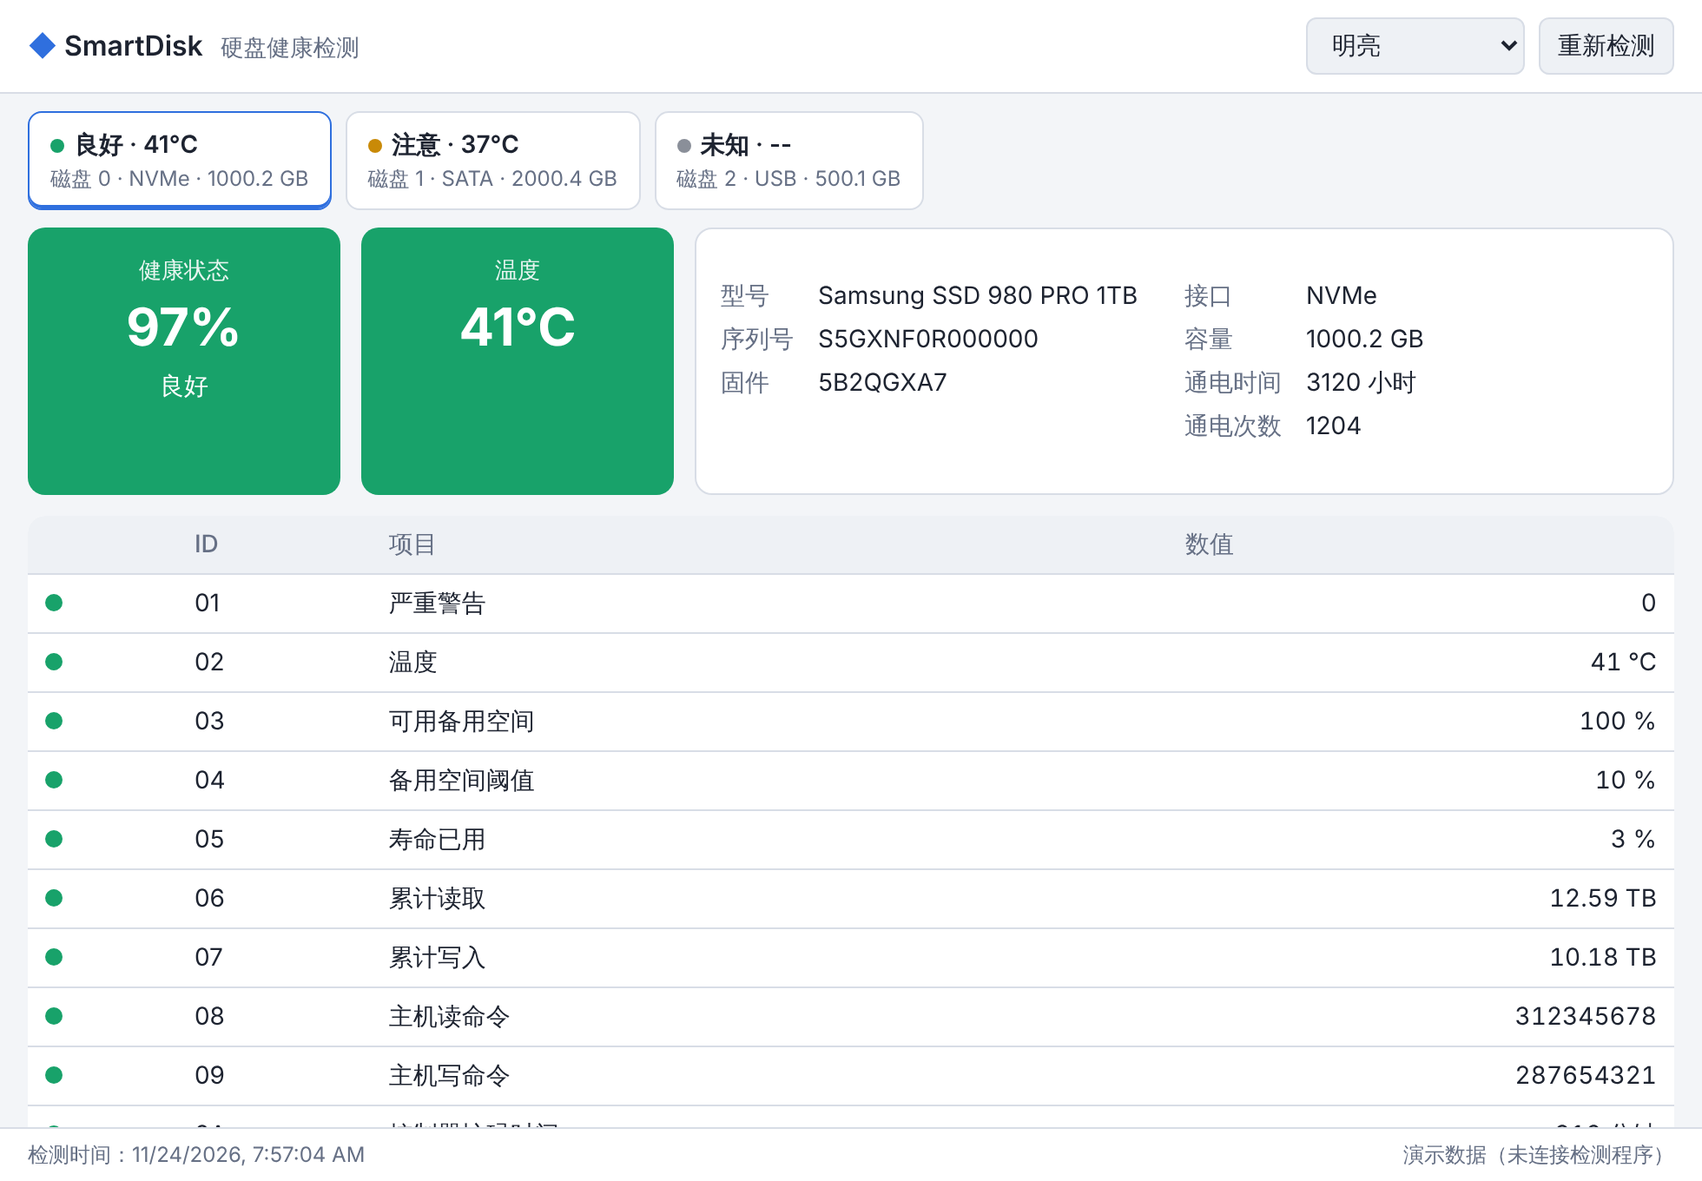
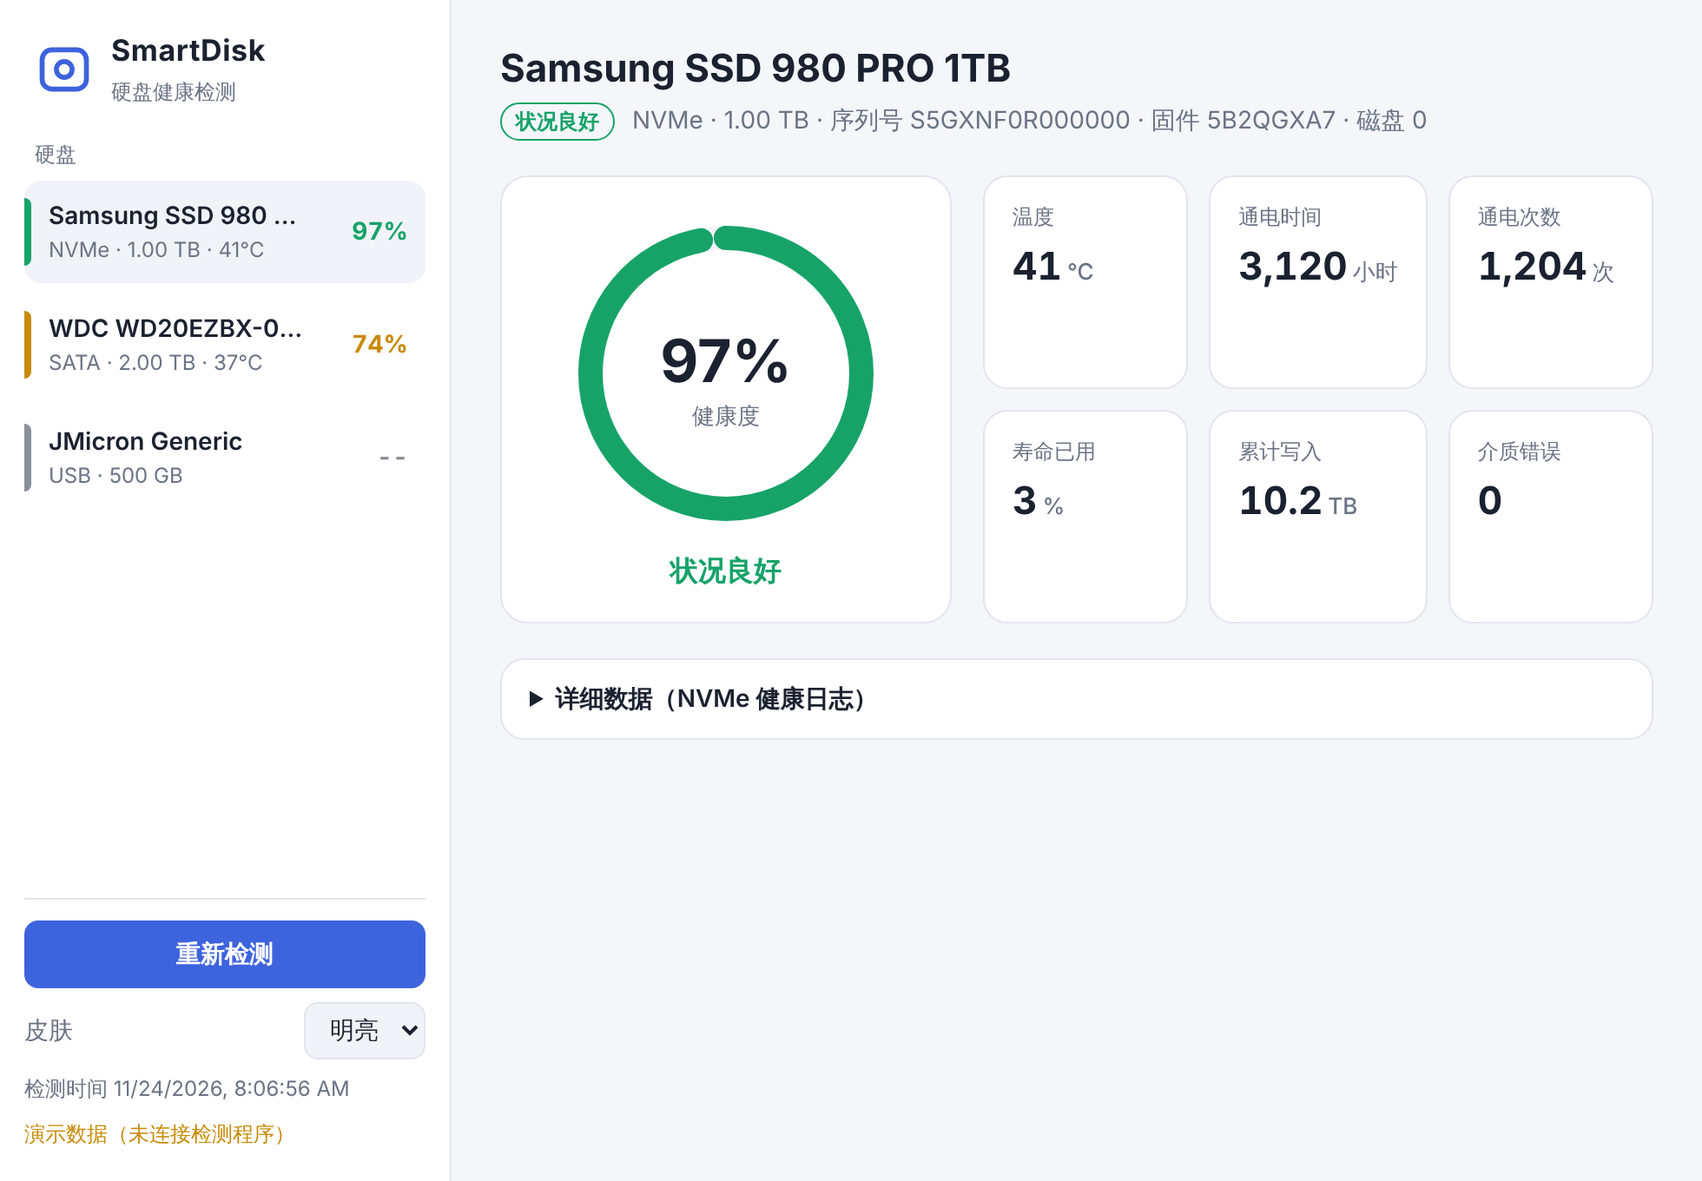
Redesign UI: sidebar disk list, health ring, metric cards
Replaces the tab strip + flat attribute table with an original layout:
left sidebar disk list, circular health gauge, key metric cards and a
collapsible detailed-data section.

Claude-Session: https://claude.ai/code/session_01VmbwVr5NVgu4o6oHH7UYL3

diff --git a/app/renderer/app.js b/app/renderer/app.js
@@ -1,14 +1,14 @@
 const $ = (s) => document.querySelector(s);
-const STATUS_TEXT = { good: '良好', warn: '注意', bad: '危险', unknown: '未知' };
+const STATUS_TEXT = { good: '状况良好', warn: '需要注意', bad: '建议更换', unknown: '无法判断' };
 const BUS_TEXT = { sata: 'SATA', nvme: 'NVMe', usb: 'USB', other: '其他' };
 
 let data = null;
 let current = 0;
 
 function esc(v) { return String(v ?? '').replace(/[&<>"]/g, c => ({ '&': '&amp;', '<': '&lt;', '>': '&gt;', '"': '&quot;' }[c])); }
-function gb(bytes) { return bytes ? (bytes / 1e9).toFixed(1) + ' GB' : '-'; }
-function hex(n) { return Number(n).toString(16).toUpperCase().padStart(12, '0'); }
-function statusVar(s) { return `var(--${s === 'unknown' ? 'unknown' : s})`; }
+function size(bytes) { if (!bytes) return '-'; return bytes >= 1e12 ? (bytes / 1e12).toFixed(2) + ' TB' : Math.round(bytes / 1e9) + ' GB'; }
+function color(s) { return `var(--${s || 'unknown'})`; }
+function num(n) { return n == null ? '-' : Number(n).toLocaleString(); }
 
 // ---- skins ----
 function applyTheme(t) {
@@ -18,63 +18,112 @@ function applyTheme(t) {
 try { const t = localStorage.getItem('theme'); if (t) { $('#theme').value = t; applyTheme(t); } } catch {}
 $('#theme').addEventListener('change', e => applyTheme(e.target.value));
 
+// ---- pieces ----
+function gauge(pct, status) {
+  const r = 78, c = 2 * Math.PI * r;
+  const p = pct == null ? 0 : pct / 100;
+  return `<svg class="gauge" viewBox="0 0 190 190">
+    <circle class="track" cx="95" cy="95" r="${r}" fill="none" stroke-width="14"/>
+    <circle cx="95" cy="95" r="${r}" fill="none" stroke="${color(status)}" stroke-width="14" stroke-linecap="round"
+      stroke-dasharray="${c * p} ${c}" transform="rotate(-90 95 95)"/>
+    <text class="v" x="95" y="100" text-anchor="middle">${pct == null ? '--' : pct + '%'}</text>
+    <text class="l" x="95" y="124" text-anchor="middle">健康度</text>
+  </svg>`;
+}
+
+function metric(k, v, unit = '', cls = '') {
+  return `<div class="metric ${cls}"><div class="k">${k}</div><div class="v">${esc(v)}${unit ? `<small>${unit}</small>` : ''}</div></div>`;
+}
+
+function rawOf(d, id) { return d.ata?.attributes.find(a => a.id === id)?.raw; }
+
+function metricsFor(d, s) {
+  const t = s.temperatureC;
+  const tCls = t == null ? '' : t >= 60 ? 'danger' : t >= 50 ? 'alert' : '';
+  const list = [
+    metric('温度', t ?? '--', t == null ? '' : '°C', tCls),
+    metric('通电时间', num(s.powerOnHours), '小时'),
+    metric('通电次数', num(s.powerCycles), '次'),
+  ];
+  if (d.nvme) {
+    const n = d.nvme;
+    list.push(
+      metric('寿命已用', n.percentageUsed, '%', n.percentageUsed >= 90 ? 'alert' : ''),
+      metric('累计写入', (n.dataUnitsWritten * 512000 / 1e12).toFixed(1), 'TB'),
+      metric('介质错误', num(n.mediaErrors), '', n.mediaErrors ? 'alert' : ''),
+    );
+  } else if (d.ata) {
+    const re = rawOf(d, 5) ?? 0, pend = rawOf(d, 197) ?? 0, unc = rawOf(d, 198) ?? 0;
+    list.push(
+      metric('重映射扇区', num(re), '', re ? 'alert' : ''),
+      metric('待映射扇区', num(pend), '', pend ? 'alert' : ''),
+      metric('无法修正扇区', num(unc), '', unc ? 'danger' : ''),
+    );
+  }
+  return list.join('');
+}
+
+function rawTable(d, s) {
+  if (!s.rows.length) return '';
+  const STATE = { ok: '正常', warn: '注意', bad: '异常' };
+  if (d.nvme) {
+    return `<details class="raw"><summary>详细数据（NVMe 健康日志）</summary><div class="attr-list">
+      ${s.rows.map(r => `<div class="attr nv"><span class="n">${esc(r.name)}</span><span class="r st-${r.state}">${esc(r.value)}</span></div>`).join('')}
+    </div></details>`;
+  }
+  return `<details class="raw"><summary>详细数据（SMART 属性 ${s.rows.length} 项）</summary><div class="attr-list">
+    <div class="attr hdr"><span>属性</span><span class="r">原始值</span><span class="r">当前</span><span class="r">阈值</span><span class="r">状态</span></div>
+    ${s.rows.map(r => `<div class="attr"><span class="n">${esc(r.name)}<small>#${r.id}</small></span>
+      <span class="r">${num(r.raw)}</span><span class="r">${r.current}</span><span class="r">${r.threshold}</span>
+      <span class="r st-${r.state}">${STATE[r.state]}</span></div>`).join('')}
+  </div></details>`;
+}
+
 // ---- rendering ----
-function renderTabs() {
-  $('#tabs').innerHTML = data.disks.map((d, i) => {
+function renderList() {
+  $('#diskList').innerHTML = data.disks.map((d, i) => {
     const s = d.summary;
-    const temp = s.temperatureC != null ? `${s.temperatureC}°C` : '--';
-    return `<button class="tab ${i === current ? 'active' : ''}" data-i="${i}">
-      <div class="t1"><span class="dot" style="background:${statusVar(s.status)}"></span>${STATUS_TEXT[s.status]} · ${temp}</div>
-      <div class="t2">磁盘 ${d.index} · ${esc(BUS_TEXT[d.bus] || d.bus)} · ${gb(d.sizeBytes)}</div>
+    return `<button class="disk ${i === current ? 'active' : ''}" data-i="${i}">
+      <span class="bar" style="background:${color(s.status)}"></span>
+      <span><div class="m">${esc(d.model) || '未知型号'}</div><div class="s">${esc(BUS_TEXT[d.bus] || d.bus)} · ${size(d.sizeBytes)}${s.temperatureC != null ? ' · ' + s.temperatureC + '°C' : ''}</div></span>
+      <span class="pct" style="color:${color(s.status)}">${s.health != null ? s.health + '%' : '--'}</span>
     </button>`;
   }).join('');
-  document.querySelectorAll('.tab').forEach(b => b.onclick = () => { current = +b.dataset.i; render(); });
+  document.querySelectorAll('.disk').forEach(b => b.onclick = () => { current = +b.dataset.i; render(); });
 }
 
 function renderDetail() {
   const d = data.disks[current];
   const s = d.summary;
-  const tempStatus = s.temperatureC == null ? 'unknown' : s.temperatureC >= 60 ? 'bad' : s.temperatureC >= 50 ? 'warn' : 'good';
-  const isNvme = !!d.nvme;
+  const head = `<div class="head"><h1>${esc(d.model) || '未知型号'}</h1>
+    <div class="meta"><span class="chip" style="color:${color(s.status)}">${STATUS_TEXT[s.status]}</span>
+    ${esc(BUS_TEXT[d.bus] || d.bus)} · ${size(d.sizeBytes)} · 序列号 ${esc(d.serial) || '-'} · 固件 ${esc(d.firmware) || '-'} · 磁盘 ${d.index}</div></div>`;
 
-  const rows = isNvme
-    ? s.rows.map(r => `<tr><td><span class="state st-${r.state}"></span></td><td>${r.id}</td><td>${esc(r.name)}</td><td class="num">${esc(r.value)}</td></tr>`).join('')
-    : s.rows.map(r => `<tr><td><span class="state st-${r.state}"></span></td><td>${r.id.toString(16).toUpperCase().padStart(2, '0')}</td><td>${esc(r.name)}</td>
-        <td class="num">${r.current}</td><td class="num">${r.worst}</td><td class="num">${r.threshold}</td><td class="num">${hex(r.raw)}</td></tr>`).join('');
-  const head = isNvme
-    ? '<tr><th></th><th>ID</th><th>项目</th><th>数值</th></tr>'
-    : '<tr><th></th><th>ID</th><th>属性</th><th>当前值</th><th>最差值</th><th>阈值</th><th>原始值</th></tr>';
-
-  $('#detail').innerHTML = `
-    <section class="overview">
-      <div class="badge s-${s.status}"><div class="label">健康状态</div>
-        <div class="value">${s.health != null ? s.health + '%' : '--'}</div><div>${STATUS_TEXT[s.status]}</div></div>
-      <div class="badge s-${tempStatus}"><div class="label">温度</div>
-        <div class="value">${s.temperatureC != null ? s.temperatureC + '°C' : '--'}</div><div>&nbsp;</div></div>
-      <div class="card">
-        <dl class="info">
-          <dt>型号</dt><dd>${esc(d.model) || '-'}</dd><dt>接口</dt><dd>${esc(BUS_TEXT[d.bus] || d.bus)}</dd>
-          <dt>序列号</dt><dd>${esc(d.serial) || '-'}</dd><dt>容量</dt><dd>${gb(d.sizeBytes)}</dd>
-          <dt>固件</dt><dd>${esc(d.firmware) || '-'}</dd><dt>通电时间</dt><dd>${s.powerOnHours != null ? s.powerOnHours + ' 小时' : '-'}</dd>
-          <dt></dt><dd></dd><dt>通电次数</dt><dd>${s.powerCycles ?? '-'}</dd>
-        </dl>
-        ${s.reasons?.length ? `<div class="reasons">⚠ ${s.reasons.map(esc).join('；')}</div>` : ''}
+  if (!d.smartOk) {
+    $('#detail').innerHTML = head + `<div class="hero"><div class="gauge-card">${gauge(null, 'unknown')}<div class="verdict">${STATUS_TEXT.unknown}</div></div>
+      <div class="empty">${d.bus === 'usb' ? '这块硬盘通过 USB 硬盘盒连接，桥接芯片不支持读取 SMART。请把硬盘直接接到主板 SATA / M.2 接口再检测。' : esc(s.reasons[0])}</div></div>`;
+    return;
+  }
+  $('#detail').innerHTML = head + `
+    <section class="hero">
+      <div class="gauge-card">${gauge(s.health, s.status)}
+        <div class="verdict" style="color:${color(s.status)}">${STATUS_TEXT[s.status]}</div>
+        ${s.reasons.length ? `<ul class="reasons">${s.reasons.map(r => `<li>${esc(r)}</li>`).join('')}</ul>` : ''}
       </div>
+      <div class="metrics">${metricsFor(d, s)}</div>
     </section>
-    ${s.rows.length ? `<table><thead>${head}</thead><tbody>${rows}</tbody></table>`
-                    : `<div class="card muted">${d.bus === 'usb' ? '该硬盘通过 USB 硬盘盒连接，桥接芯片不支持读取 SMART。请改用 SATA/M.2 直连检测。' : esc(s.reasons[0])}</div>`}
-  `;
+    ${rawTable(d, s)}`;
 }
 
 function render() {
   if (!data.disks.length) {
-    $('#tabs').innerHTML = '';
-    $('#detail').innerHTML = `<div class="card">未找到硬盘。${data.error ? esc(data.error) : '请确认以管理员身份运行。'}</div>`;
+    $('#diskList').innerHTML = '';
+    $('#detail').innerHTML = `<div class="empty">未找到硬盘。${data.error ? esc(data.error) : '请确认以管理员身份运行。'}</div>`;
     return;
   }
-  renderTabs();
+  renderList();
   renderDetail();
-  $('#scanTime').textContent = '检测时间：' + new Date(data.scannedAt).toLocaleString();
+  $('#scanTime').textContent = '检测时间 ' + new Date(data.scannedAt).toLocaleString();
   $('#notice').textContent = data.mock ? '演示数据（未连接检测程序）' : (data.elevated ? '' : '未取得管理员权限，部分硬盘可能无法读取');
 }
 

diff --git a/app/renderer/style.css b/app/renderer/style.css
@@ -1,27 +1,27 @@
 /* Skins: each theme only redefines tokens. Add a new skin = add one block. */
 :root, [data-theme="slate"] {
-  --bg: #1b1e24; --panel: #242830; --panel-2: #2d323c; --text: #e6e8ec; --muted: #9098a6;
-  --accent: #6ea8fe; --border: #363c48;
-  --good: #3ccf8e; --warn: #f2b53c; --bad: #f2555a; --unknown: #8a8f99;
+  --bg: #15171c; --side: #1c1f26; --panel: #22262e; --panel-2: #2a2f39; --text: #e8eaee; --muted: #8e96a4;
+  --accent: #7c9cff; --border: #2f3440;
+  --good: #3ccf8e; --warn: #f2b53c; --bad: #f2555a; --unknown: #7d8390;
 }
 [data-theme="light"] {
-  --bg: #f3f5f8; --panel: #ffffff; --panel-2: #eef1f5; --text: #1d2330; --muted: #667085;
-  --accent: #2f6fde; --border: #d8dde6;
-  --good: #18a26a; --warn: #c98a07; --bad: #d63a40; --unknown: #8a8f99;
+  --bg: #f4f6fa; --side: #ffffff; --panel: #ffffff; --panel-2: #f0f3f8; --text: #1b2130; --muted: #6b7385;
+  --accent: #3d63dd; --border: #e1e5ec;
+  --good: #17a368; --warn: #c98a07; --bad: #d63a40; --unknown: #8a8f99;
 }
 [data-theme="ocean"] {
-  --bg: #0c1b2a; --panel: #11263a; --panel-2: #173149; --text: #e3f0fb; --muted: #8fb0cc;
-  --accent: #38bdf8; --border: #1f3d59;
+  --bg: #0a1724; --side: #0e2032; --panel: #12283d; --panel-2: #183450; --text: #e3f0fb; --muted: #8fb0cc;
+  --accent: #38bdf8; --border: #1e3d5a;
   --good: #34d399; --warn: #fbbf24; --bad: #fb7185; --unknown: #8a8f99;
 }
 [data-theme="forest"] {
-  --bg: #141c16; --panel: #1c271f; --panel-2: #243328; --text: #e5efe6; --muted: #93a896;
-  --accent: #8bd17c; --border: #2e4033;
+  --bg: #111813; --side: #172019; --panel: #1c271f; --panel-2: #243328; --text: #e5efe6; --muted: #93a896;
+  --accent: #8bd17c; --border: #2b3c30;
   --good: #8bd17c; --warn: #e8c547; --bad: #ef6f5e; --unknown: #8a8f99;
 }
 [data-theme="sunset"] {
-  --bg: #221619; --panel: #2e1e22; --panel-2: #3a262b; --text: #f7e9e4; --muted: #c2a19a;
-  --accent: #ff9f6e; --border: #4a3036;
+  --bg: #1d1316; --side: #261a1e; --panel: #2e1e22; --panel-2: #3a262b; --text: #f7e9e4; --muted: #c2a19a;
+  --accent: #ff9f6e; --border: #452d33;
   --good: #7fd8a4; --warn: #ffc857; --bad: #ff6b6b; --unknown: #8a8f99;
 }
 
@@ -30,42 +30,63 @@ html, body { margin: 0; height: 100%; }
 body {
   background: var(--bg); color: var(--text);
   font: 14px/1.5 "Segoe UI", "Microsoft YaHei UI", sans-serif;
-  display: flex; flex-direction: column;
+  display: grid; grid-template-columns: 260px 1fr;
 }
-.topbar { display: flex; justify-content: space-between; align-items: center; padding: 10px 16px; background: var(--panel); border-bottom: 1px solid var(--border); }
-.brand { font-weight: 600; font-size: 16px; }
-.brand .logo { color: var(--accent); }
-.brand small { color: var(--muted); font-weight: 400; margin-left: 6px; }
-.actions { display: flex; gap: 8px; }
-select, button { background: var(--panel-2); color: var(--text); border: 1px solid var(--border); border-radius: 6px; padding: 5px 10px; font: inherit; cursor: pointer; }
-button:hover { border-color: var(--accent); }
-
-.tabs { display: flex; gap: 8px; padding: 10px 16px; overflow-x: auto; background: var(--bg); }
-.tab { min-width: 130px; padding: 8px 12px; border-radius: 8px; background: var(--panel); border: 1px solid var(--border); text-align: left; }
-.tab.active { border-color: var(--accent); box-shadow: inset 0 -2px 0 var(--accent); }
-.tab .dot { display: inline-block; width: 8px; height: 8px; border-radius: 50%; margin-right: 6px; }
-.tab .t1 { font-weight: 600; }
-.tab .t2 { color: var(--muted); font-size: 12px; }
-
-.detail { flex: 1; overflow: auto; padding: 0 16px 16px; }
-.overview { display: grid; grid-template-columns: 180px 180px 1fr; gap: 12px; margin-bottom: 12px; }
-.card { background: var(--panel); border: 1px solid var(--border); border-radius: 10px; padding: 14px; }
-.badge { text-align: center; color: #fff; border-radius: 10px; padding: 16px 10px; }
-.badge .label { font-size: 13px; opacity: .9; }
-.badge .value { font-size: 30px; font-weight: 700; }
-.s-good { background: var(--good); } .s-warn { background: var(--warn); }
-.s-bad { background: var(--bad); }   .s-unknown { background: var(--unknown); }
-.info { display: grid; grid-template-columns: max-content 1fr max-content 1fr; gap: 4px 14px; }
-.info dt { color: var(--muted); } .info dd { margin: 0; }
-.reasons { margin-top: 8px; color: var(--warn); font-size: 13px; }
-
-table { width: 100%; border-collapse: collapse; background: var(--panel); border-radius: 10px; overflow: hidden; }
-th, td { padding: 6px 10px; text-align: left; border-bottom: 1px solid var(--border); white-space: nowrap; }
-th { background: var(--panel-2); color: var(--muted); font-weight: 500; position: sticky; top: 0; }
-td.num { text-align: right; font-variant-numeric: tabular-nums; }
-tr .state { width: 10px; height: 10px; border-radius: 50%; display: inline-block; }
-.st-ok { background: var(--good); } .st-warn { background: var(--warn); } .st-bad { background: var(--bad); }
-
-.footer { display: flex; justify-content: space-between; padding: 6px 16px; color: var(--muted); font-size: 12px; border-top: 1px solid var(--border); background: var(--panel); }
+button, select { font: inherit; color: var(--text); background: var(--panel-2); border: 1px solid var(--border); border-radius: 8px; padding: 6px 10px; cursor: pointer; }
 .muted { color: var(--muted); }
-th:nth-child(n+4) { text-align: right; }
+.small { font-size: 12px; }
+
+/* ---------- sidebar ---------- */
+.sidebar { background: var(--side); border-right: 1px solid var(--border); display: flex; flex-direction: column; padding: 18px 14px; min-height: 0; }
+.brand { display: flex; gap: 10px; align-items: center; padding: 0 6px 18px; }
+.logo { width: 34px; height: 34px; fill: none; stroke: var(--accent); stroke-width: 2; }
+.brand .name { font-weight: 700; font-size: 17px; letter-spacing: .3px; }
+.brand .sub { color: var(--muted); font-size: 12px; }
+.side-title { color: var(--muted); font-size: 12px; text-transform: uppercase; padding: 0 6px 6px; }
+.disk-list { flex: 1; overflow: auto; display: flex; flex-direction: column; gap: 6px; }
+.disk { all: unset; cursor: pointer; display: grid; grid-template-columns: 4px 1fr auto; gap: 10px; align-items: center; padding: 10px 10px 10px 0; border-radius: 10px; }
+.disk:hover { background: var(--panel); }
+.disk.active { background: var(--panel-2); }
+.disk .bar { height: 100%; min-height: 34px; border-radius: 0 4px 4px 0; }
+.disk .m { font-weight: 600; white-space: nowrap; overflow: hidden; text-overflow: ellipsis; max-width: 150px; }
+.disk .s { color: var(--muted); font-size: 12px; }
+.disk .pct { font-weight: 700; font-variant-numeric: tabular-nums; }
+.side-foot { display: flex; flex-direction: column; gap: 8px; padding-top: 12px; border-top: 1px solid var(--border); }
+.primary { background: var(--accent); border-color: var(--accent); color: #fff; font-weight: 600; padding: 8px; }
+.theme-pick { display: flex; justify-content: space-between; align-items: center; color: var(--muted); }
+.notice { color: var(--warn); }
+
+/* ---------- detail ---------- */
+.detail { overflow: auto; padding: 24px 28px; }
+.head h1 { margin: 0; font-size: 22px; }
+.head .meta { color: var(--muted); margin-top: 2px; }
+.chip { display: inline-block; padding: 1px 8px; border-radius: 999px; font-size: 12px; font-weight: 600; border: 1px solid currentColor; margin-right: 6px; }
+
+.hero { display: grid; grid-template-columns: 260px 1fr; gap: 18px; margin: 20px 0; }
+.gauge-card { background: var(--panel); border: 1px solid var(--border); border-radius: 16px; padding: 18px; display: flex; flex-direction: column; align-items: center; }
+.gauge { width: 190px; height: 190px; }
+.gauge .track { stroke: var(--panel-2); }
+.gauge text.v { font-size: 34px; font-weight: 700; fill: var(--text); }
+.gauge text.l { font-size: 13px; fill: var(--muted); }
+.verdict { font-size: 16px; font-weight: 600; margin-top: 6px; }
+.reasons { margin: 8px 0 0; padding: 0; list-style: none; color: var(--muted); font-size: 12px; text-align: center; }
+
+.metrics { display: grid; grid-template-columns: repeat(3, 1fr); gap: 12px; }
+.metric { background: var(--panel); border: 1px solid var(--border); border-radius: 14px; padding: 14px 16px; }
+.metric .k { color: var(--muted); font-size: 12px; }
+.metric .v { white-space: nowrap; font-size: 22px; font-weight: 700; margin-top: 4px; font-variant-numeric: tabular-nums; }
+.metric .v small { font-size: 13px; font-weight: 500; color: var(--muted); margin-left: 3px; }
+.metric.alert { border-color: var(--warn); }
+.metric.danger { border-color: var(--bad); }
+
+details.raw { background: var(--panel); border: 1px solid var(--border); border-radius: 14px; }
+details.raw summary { cursor: pointer; padding: 12px 16px; font-weight: 600; }
+.attr-list { display: grid; grid-template-columns: 1fr; padding: 0 8px 8px; }
+.attr { display: grid; grid-template-columns: 1fr 110px 70px 70px 70px; gap: 8px; align-items: center; padding: 8px; border-radius: 8px; }
+.attr:nth-child(even) { background: var(--panel-2); }
+.attr.hdr { color: var(--muted); font-size: 12px; background: none; }
+.attr .n small { color: var(--muted); margin-left: 6px; font-size: 11px; }
+.attr .r { text-align: right; font-variant-numeric: tabular-nums; }
+.attr.nv { grid-template-columns: 1fr 200px; }
+.st-ok { color: var(--good); } .st-warn { color: var(--warn); } .st-bad { color: var(--bad); }
+.empty { background: var(--panel); border: 1px dashed var(--border); border-radius: 14px; padding: 24px; color: var(--muted); }

diff --git a/app/renderer/index.html b/app/renderer/index.html
@@ -7,30 +7,32 @@
   <link rel="stylesheet" href="style.css">
 </head>
 <body>
-  <header class="topbar">
-    <div class="brand"><span class="logo">◆</span> SmartDisk <small>硬盘健康检测</small></div>
-    <div class="actions">
-      <select id="theme" title="皮肤">
-        <option value="slate">石墨（默认）</option>
-        <option value="light">明亮</option>
-        <option value="ocean">海蓝</option>
-        <option value="forest">森林</option>
-        <option value="sunset">落日</option>
-      </select>
-      <button id="refresh">重新检测</button>
+  <aside class="sidebar">
+    <div class="brand">
+      <svg viewBox="0 0 24 24" class="logo" aria-hidden="true"><rect x="3" y="4" width="18" height="16" rx="4"/><circle cx="12" cy="12" r="3.2"/></svg>
+      <div><div class="name">SmartDisk</div><div class="sub">硬盘健康检测</div></div>
     </div>
-  </header>
-
-  <nav id="tabs" class="tabs"></nav>
+    <div class="side-title">硬盘</div>
+    <nav id="diskList" class="disk-list"></nav>
+    <div class="side-foot">
+      <button id="refresh" class="primary">重新检测</button>
+      <label class="theme-pick">皮肤
+        <select id="theme">
+          <option value="slate">石墨</option>
+          <option value="light">明亮</option>
+          <option value="ocean">海蓝</option>
+          <option value="forest">森林</option>
+          <option value="sunset">落日</option>
+        </select>
+      </label>
+      <div id="scanTime" class="muted small"></div>
+      <div id="notice" class="notice small"></div>
+    </div>
+  </aside>
 
   <main id="detail" class="detail">
     <p class="muted">正在读取硬盘信息…</p>
   </main>
-
-  <footer class="footer">
-    <span id="scanTime"></span>
-    <span id="notice"></span>
-  </footer>
 
   <script src="app.js"></script>
 </body>
